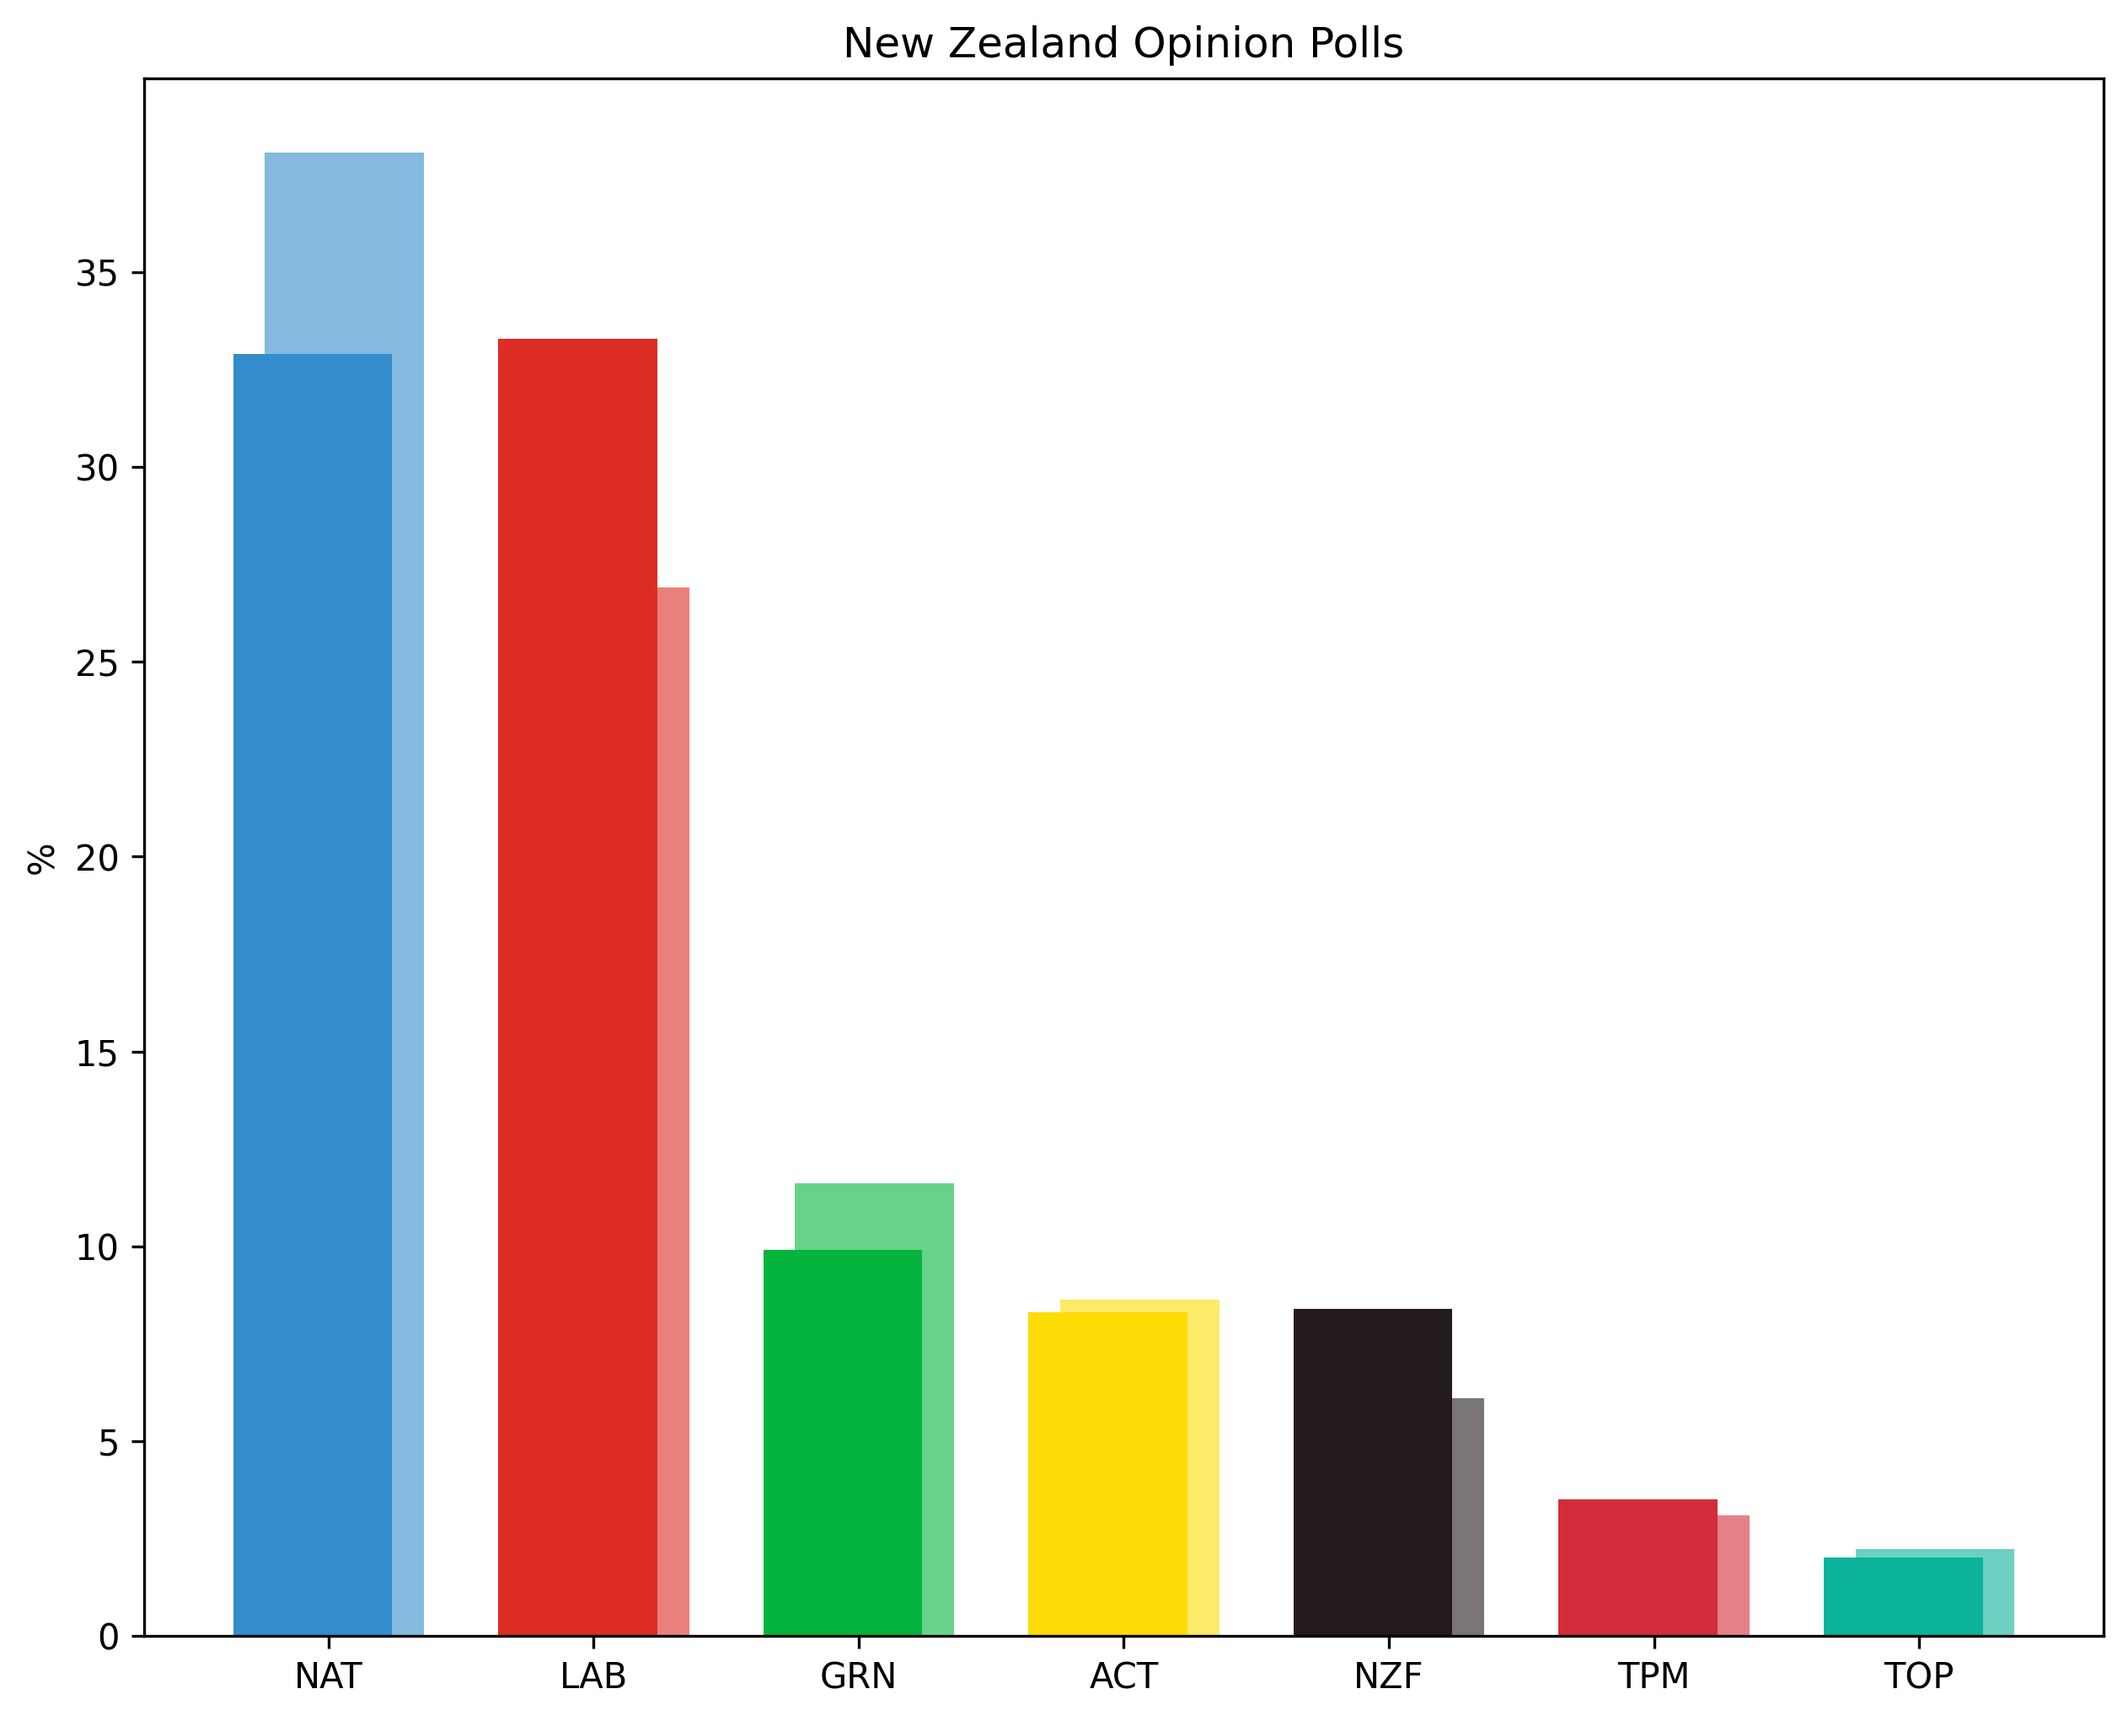
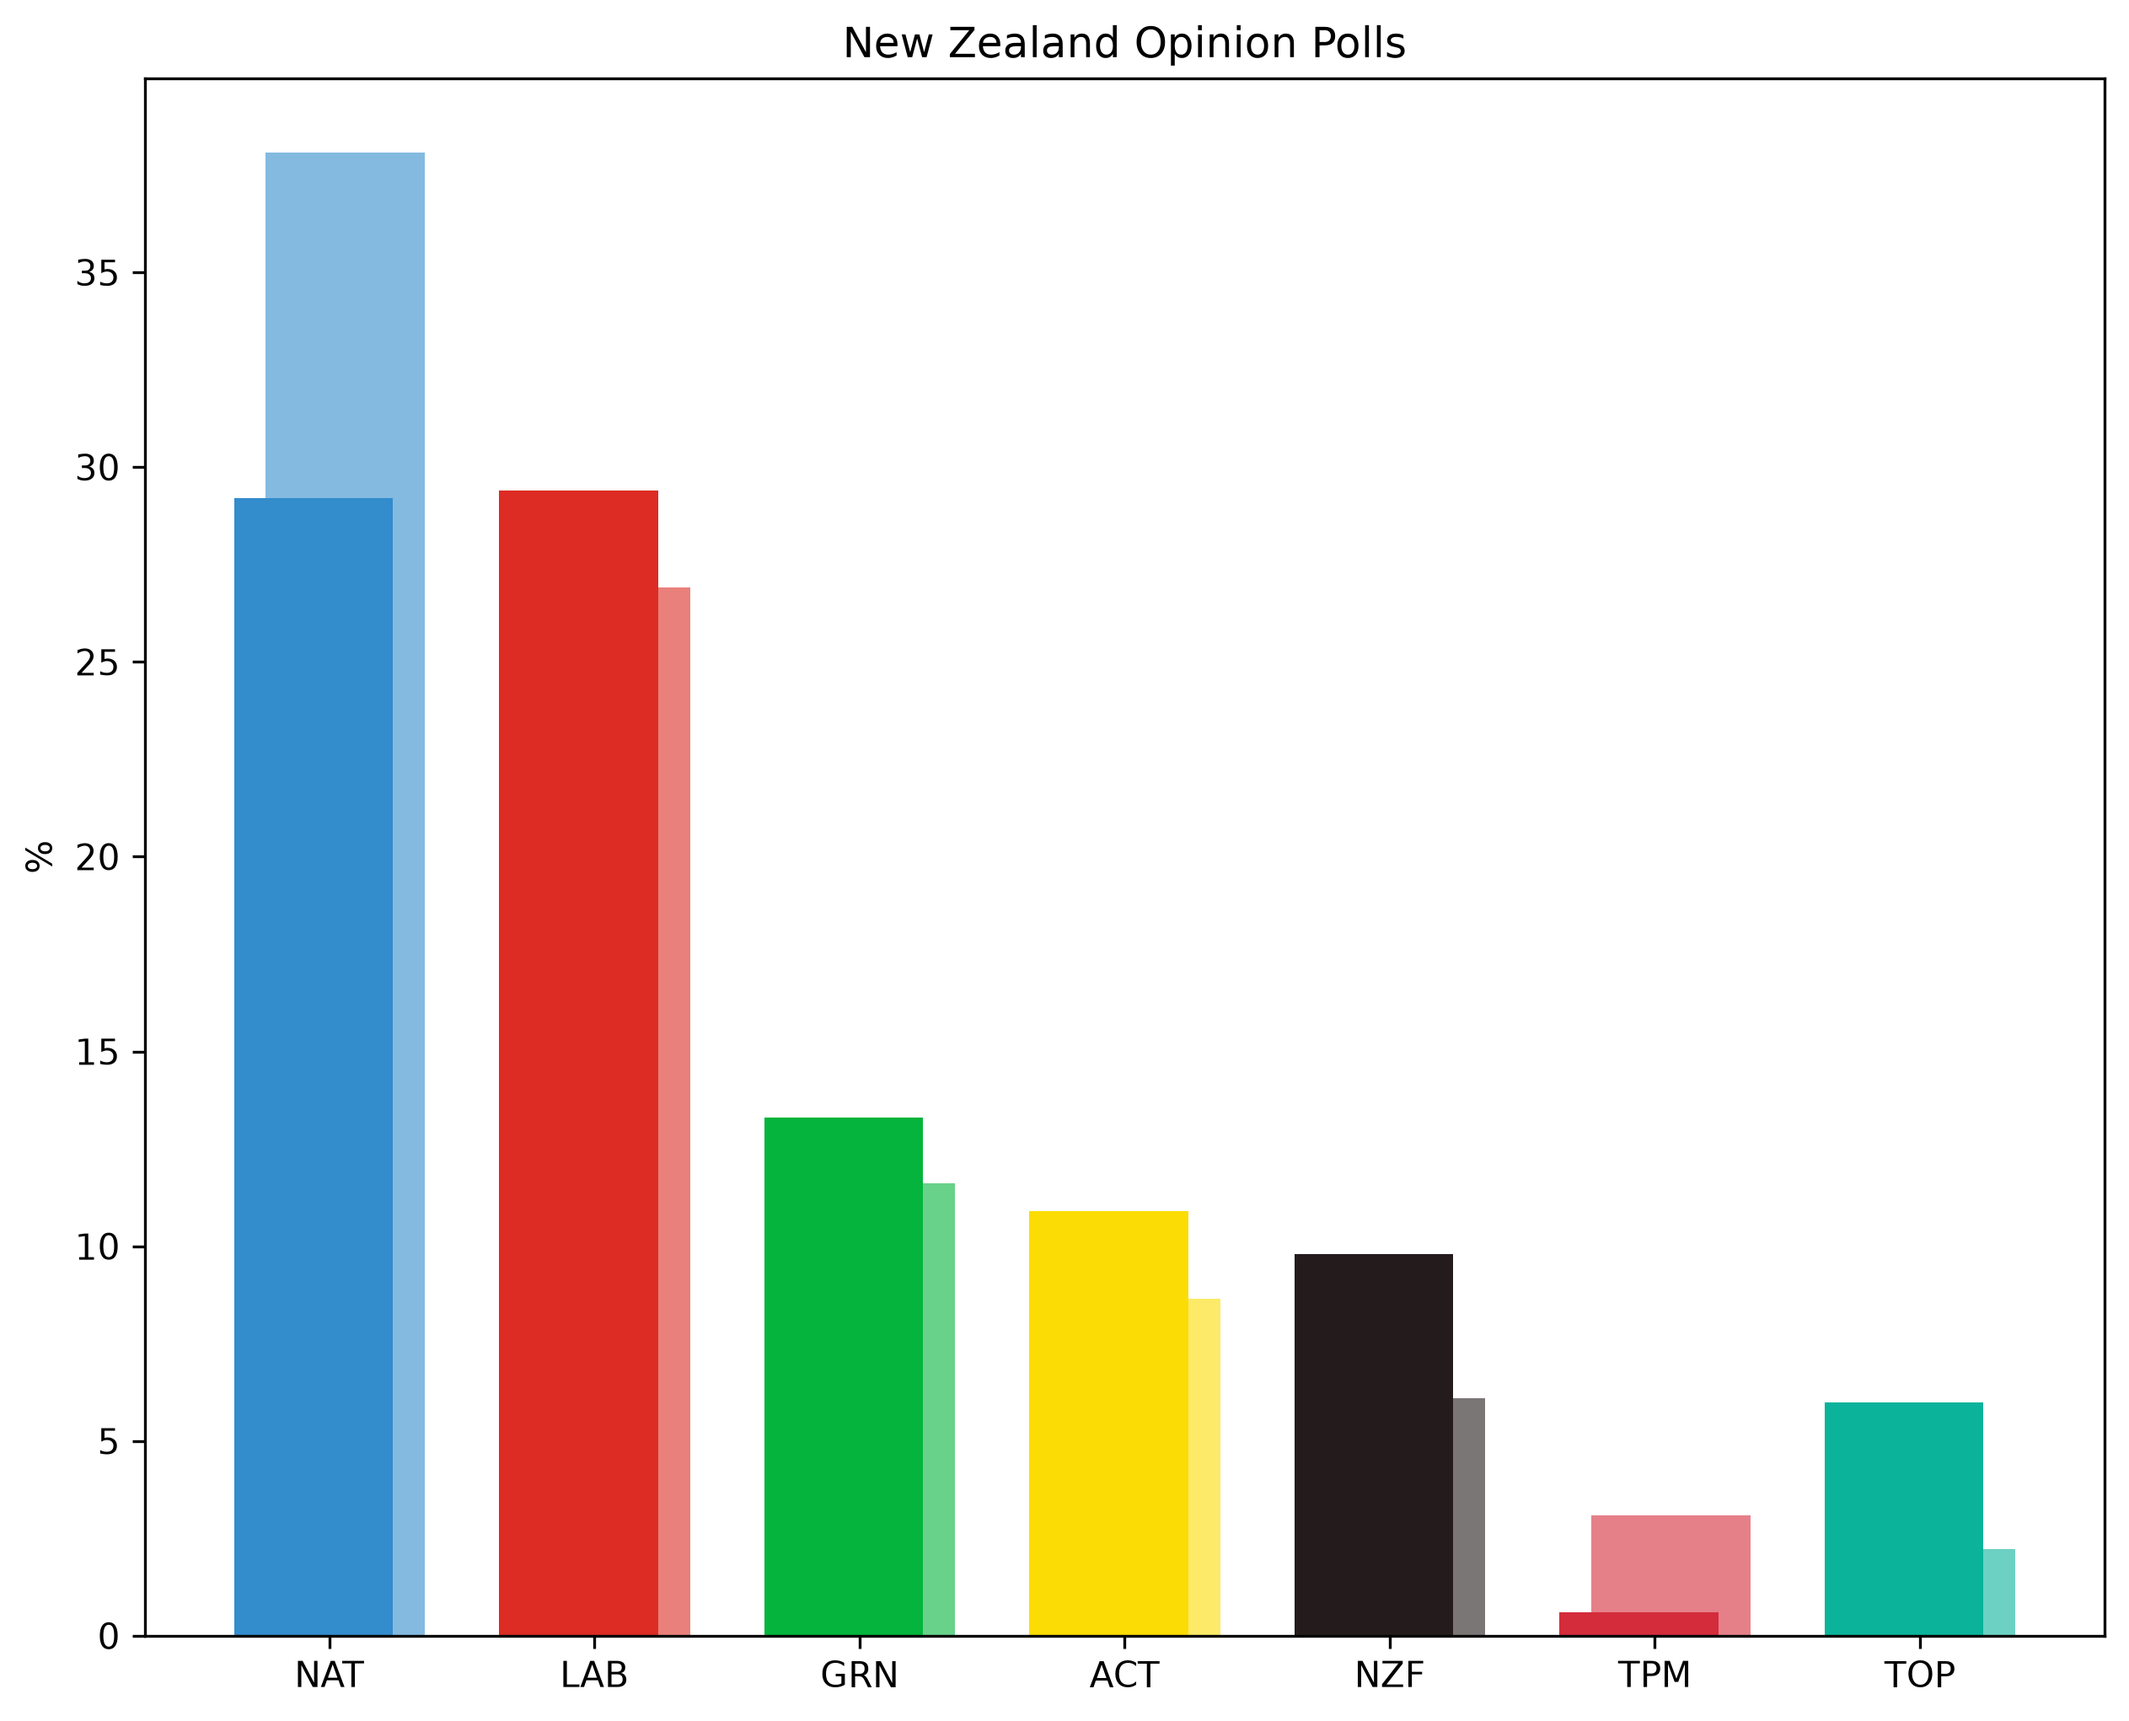
Updated New Zealand

diff --git a/Oceania/Asia-Pacific/NewZealand.py b/Oceania/Asia-Pacific/NewZealand.py
@@ -2,7 +2,7 @@ import matplotlib.pyplot as plt
 import numpy as np
 
 parties = ['NAT', 'LAB', 'GRN', 'ACT', 'NZF', 'TPM', 'TOP']
-polling_2025 = [32.9, 33.3, 9.9, 8.3, 8.4, 3.5, 2.0]
+polling_2025 = [29.2, 29.4, 13.3, 10.9, 9.8, 0.6, 6.0]
 election_2022 = [38.08, 26.92, 11.61, 8.64, 6.09, 3.08, 2.22]
 
 poll_colors = ['#338ccc', '#dc2c24', '#04b43c', '#fbdc04', '#241c1c', '#d42c3b', '#0ab39a']
